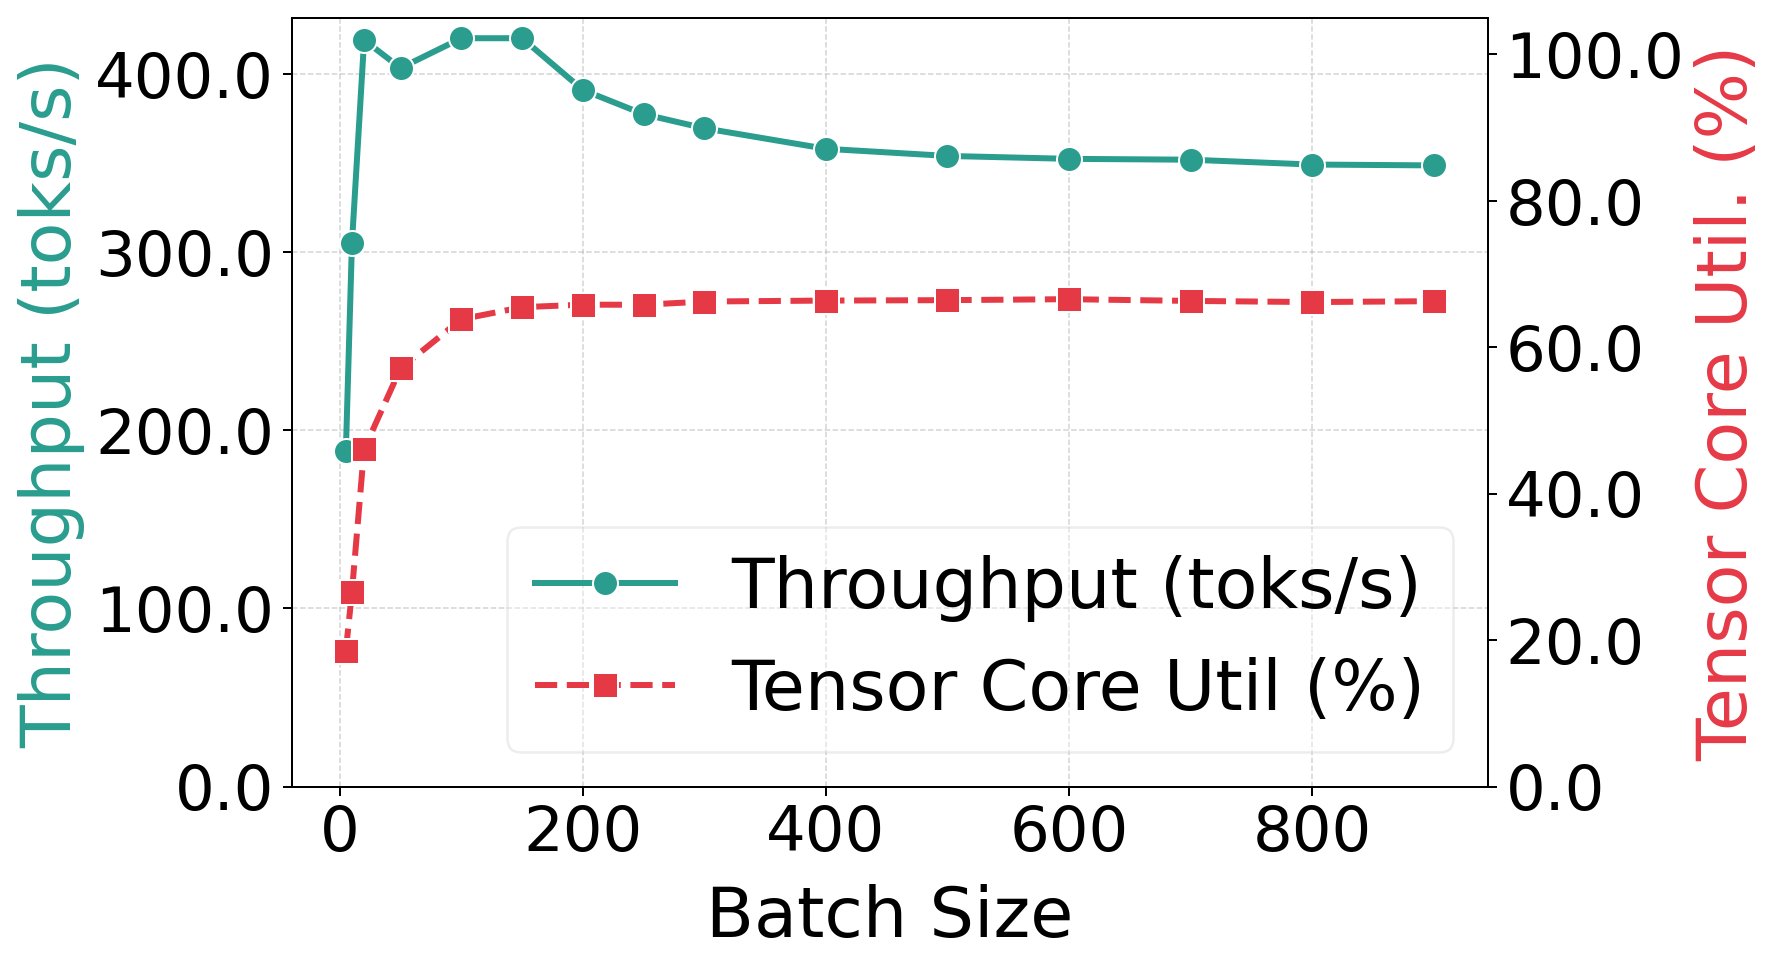
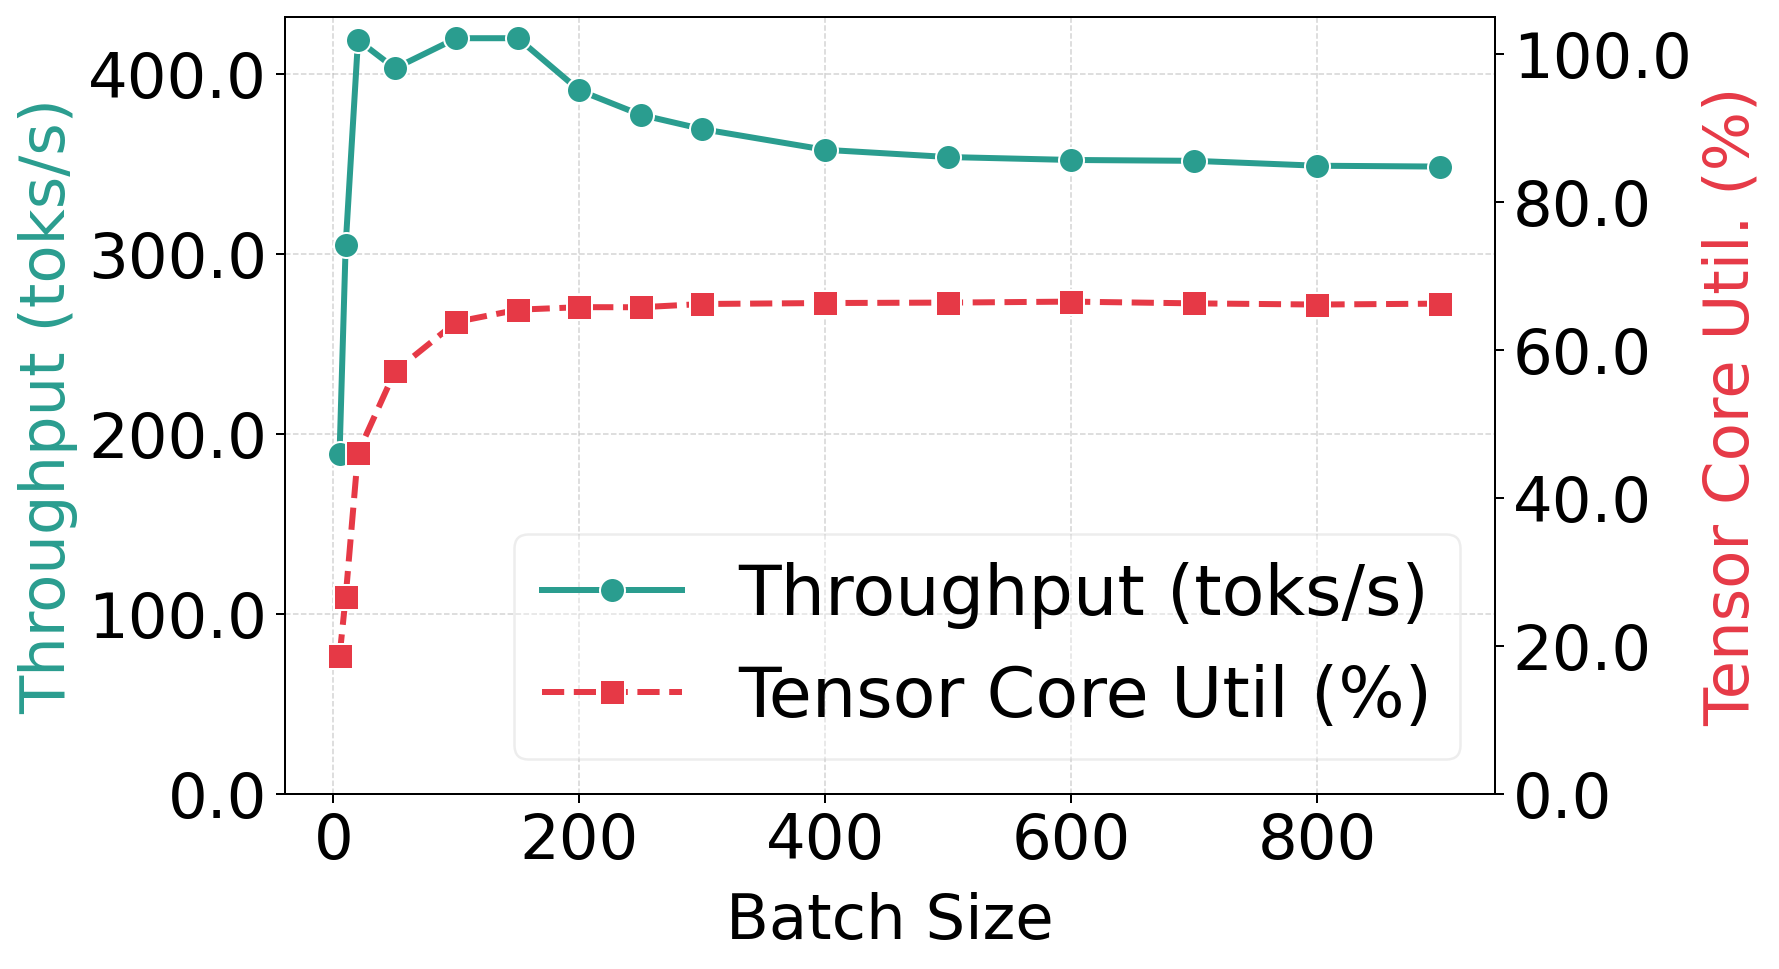
two-fam

diff --git a/code/vllm/batch_size_logs/plot.py b/code/vllm/batch_size_logs/plot.py
@@ -191,9 +191,9 @@ def _finish(fig, ax_l, ax_r,
             xlabel, ylabel_l, ylabel_r,
             legend_l, legend_r,
             outpath):
-    ax_l.set_xlabel(xlabel,   fontsize=28, labelpad=8)
-    ax_l.set_ylabel(ylabel_l, fontsize=28, color=ax_l.get_lines()[0].get_color())
-    ax_r.set_ylabel(ylabel_r, fontsize=28, color=ax_r.get_lines()[0].get_color())
+    ax_l.set_xlabel(xlabel,   fontsize=25, labelpad=8)
+    ax_l.set_ylabel(ylabel_l, fontsize=25, color=ax_l.get_lines()[0].get_color())
+    ax_r.set_ylabel(ylabel_r, fontsize=25, color=ax_r.get_lines()[0].get_color())
     ax_l.tick_params(axis="both", labelsize=25)
     ax_r.tick_params(axis="y",    labelsize=25)
     ax_l.grid(True, linewidth=0.6, linestyle="--", alpha=0.55)
